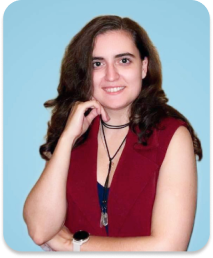
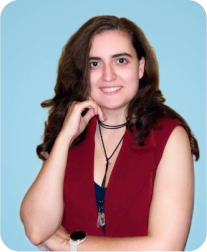
add mob card js

diff --git a/src/components/PersonalCard/PersonalCard.css b/src/components/PersonalCard/PersonalCard.css
@@ -45,7 +45,7 @@
   height: 268px;
   border-radius: 21px;
   position: absolute;
-  filter: drop-shadow(0px 3.14199px 3.14199px rgba(0, 0, 0, 0.25));
+/*  filter: drop-shadow(0px 3.14199px 3.14199px rgba(0, 0, 0, 0.25));*/
 /*  border: red solid 1px;*/
   z-index: 4;
 }
@@ -453,110 +453,110 @@ pad
     align-items: center;
     justify-content: center;
     margin: 0px  0px  0px  0px;*/
-    padding: 50px  0px  100px  0px;
+    padding: 0px  0px  0px  0px;
 /*  border: red solid 1px;*/
 }
 
   .personal-card__info-wrapper {
-/*    width: 100%;
+    width: 100%;
     display: flex;
-    flex-direction: row;
-    align-items: flex-top;
-    justify-content: flex-start;
+    flex-direction: column;
+    align-items: center;
+    justify-content: center;
     margin: 0px 0px 0px 0px;
-    padding: 0px 0px 0px 0px;*/
+    padding: 0px 0px 0px 0px;
   }
 
-.personal-card__img-button {
-/*  display: flex;
-  flex-direction: column;
-  align-items: center;
-  justify-content: flex-top;
-  margin: 0px  0px  0px  0px;*/
-  padding: 0px  25px  0px 25px;
-}
+  .personal-card__img-button {
+  /*  display: flex;
+    flex-direction: column;
+    align-items: center;
+    justify-content: flex-top;
+    margin: 0px  0px  0px  0px;*/
+    padding: 0px  0px  0px 0px;
+  }
 
-.personal-card__card-img-wrapper {
-/*  position: relative;*/
-  width: 220px;
-  height: 268px;
-  border-radius: 21px;
-/*  z-index: 5;*/
-  padding: 0px 0px 0px 0px;
-}
+  .personal-card__card-img-wrapper {
+  /*  position: relative;*/
+    width: 325px;
+    height: 395px;
+    border-radius: 18.78px;
+  /*  z-index: 5;*/
+    padding: 0px 0px 0px 0px;
+  }
 
-.personal-card__card-img{
-  object-fit: cover;
-  width: 325px;
-  height: 395px;
-  border-radius: 18.78px;
-/*  position: absolute;
-  filter: drop-shadow(0px 3.14199px 3.14199px rgba(0, 0, 0, 0.25));
-  z-index: 4;*/
-}
+  .personal-card__card-img{
+    object-fit: cover;
+    width: 325px;
+    height: 395px;
+    border-radius: 18.78px;
+  /*  position: absolute;*/
+  /*  filter: drop-shadow(0px 3.14199px 3.14199px #000000);*/
+  /*  z-index: 4;*/
+  }
 
-.personal-card__card-img-background{
-/*  position: absolute;*/
-  width: 325px;
-  height: 395px;
-  border-radius: 18.78px;
-/*  z-index: 3;*/
-}
+  .personal-card__card-img-background{
+  /*  position: absolute;*/
+    width: 323px;
+    height: 390px;
+    border-radius: 28px;
+  /*  z-index: 3;*/
+  }
 
-.personal-card__button {
-  width: 124px;
-  height: 40px;
-/*  background-color: #FFC754;*/
-/*  border: none;*/
-/*  border: #FFC754 solid 1px;*/
-  border-radius: 10px;
+  .personal-card__button {
+    width: 323px;
+    height: 40px;
+  /*  background-color: #FFC754;*/
+  /*  border: none;*/
+  /*  border: #FFC754 solid 1px;*/
+    border-radius: 10px;
 
-/*  font-family: 'Montserrat';
-  font-style: normal;
-  font-weight: 500;*/
-  font-size: 20px;
-  line-height: 24px;
-/*  color: #000000;*/
-}
+  /*  font-family: 'Montserrat';
+    font-style: normal;
+    font-weight: 500;*/
+    font-size: 20px;
+    line-height: 24px;
+  /*  color: #000000;*/
+  }
 
-.personal-card__info {
+  .personal-card__info {
 /*  height: 400px;*/
-/*  max-width: 840px;*/
-  width: max-content;
-/*  display: flex;*/
-  flex-direction: column;
-  align-items: center;
-  justify-content: flex-top;
-  margin: 0px  0px  0px  0px;
-  padding: 0px  0px  0px  0px;
-/*  border: green solid 1px;*/
-}
+    max-width: 375px;
+    width: 100%;
+  /*  display: flex;*/
+    flex-direction: column;
+    align-items: center;
+    justify-content: flex-top;
+    margin: 0px  0px  0px  0px;
+    padding: 0px  0px  0px  0px;
+  /*  border: green solid 1px;*/
+  }
 
-.personal-card__info-title {
-/*  height: 400px;*/
-/*  width: 100%;
-  display: flex;*/
-/*  flex-direction: row;*/
-/*  flex-wrap: wrap;
-  align-items: flex-top;
-  justify-content: space-between;
-  margin: 0px  0px  0px  0px;
-  padding: 0px  0px  0px  0px;*/
+  .personal-card__info-title {
+  /*  height: 400px;*/
+  /*  width: 100%;
+    display: flex;*/
+  /*  flex-direction: row;*/
+  /*  flex-wrap: wrap;
+    align-items: flex-top;
+    justify-content: space-between;
+    margin: 0px  0px  0px  0px;
+    padding: 0px  0px  0px  0px;*/
 
-}
+  }
 
-.personal-card__name-role {
-/*  height: 400px;*/
-/*  width: 300px;*/
-  max-width: 445px;
-  width: 100%;
-  display: flex;
-  flex-direction: column;
-  align-items:  flex-start;
-  justify-content: flex-start;
-  margin: 0px  0px  0px  0px;
-  padding: 0px 20px  0px  0px;
-  /*border: green solid 1px;*/
+  .personal-card__name-role {
+  /*  height: 400px;*/
+  /*  width: 300px;*/
+    max-width: 375px;
+    width: 100%;
+    display: flex;
+    flex-direction: column;
+    align-items:  flex-start;
+    justify-content: flex-start;
+    margin: 0px  0px  0px  0px;
+    padding: 0px 0px  0px  0px;
+    /*border: green solid 1px;*/
 }
 
 .personal-card__name {
@@ -584,15 +584,15 @@ pad
 
 .personal-card__info-about-me {
 /*  height: 400px;*/
-  max-width: 544px;
-/*  width: 100%;
-  display: flex;
+  max-width: 375px;
+  width: 100%;
+/*  display: flex;
   flex-direction: column;
   align-items: flex-start;
   justify-content: flex-start;*/
   align-self: flex-start;
   margin: 0px  0px  0px  0px;
-  padding: 30px  0px  0px  62px;
+  padding: 0px  0px  0px  0px;
 }
 .personal-card__about-me-title {
 /*  font-family: 'Montserrat';
@@ -603,7 +603,7 @@ pad
   letter-spacing: 0.015em;
 /*  color: #1D1D1D;
   margin: 0px  0px  0px  0px;*/
-  padding: 0px  0px  35px  0px;
+  padding: 0px  0px  0px  0px;
 
 }
 
@@ -634,8 +634,9 @@ pad
 
 
 .personal-card__connecting {
-/*  max-width: 360px;
-  display: flex;
+  max-width: 375px;
+  width: 100%;
+/*  display: flex;
   flex-direction: column;
   align-items: flex-start;
   justify-content: flex-top;*/
@@ -663,6 +664,5 @@ pad
 
   color: #313131;
 }
-
 
 }

diff --git a/src/components/PersonalCard/PersonalCard.js b/src/components/PersonalCard/PersonalCard.js
@@ -11,7 +11,7 @@ const PersonalCard = ({ member, isDesk, isPad, isMob}) => {
     window.location.href = `${member.resume}`;
   }, [member, pathname]);
 
-  const getPersonalCardInfoAboutMe = useMemo(() => {
+  const personalCardInfoAboutMe = useMemo(() => {
     return (
       <div className='personal-card__info-about-me'>
         <div className='personal-card__about-me-title'>Обо мне:</div>
@@ -33,6 +33,15 @@ const PersonalCard = ({ member, isDesk, isPad, isMob}) => {
         </div>
     )
   }, [member, pathname]);
+  
+  const personalNameRole = useMemo(() => {
+    return (
+      <>
+        <div className='personal-card__name'>{`${member.name}`}</div>
+        <div className='personal-card__role'>{`${member.team_role}`}</div>
+      </>
+    );
+  }, [member, pathname]);
 
   return (
     <div className='personal-card'>
@@ -48,18 +57,35 @@ const PersonalCard = ({ member, isDesk, isPad, isMob}) => {
             </div>
           { <img src={require(`../../images/foto/${member.desktop_foto}`)} className='personal-card__card-img'  alt="command person foto"/>}
           </div>
+          { isMob ? (
+            <div className='personal-card__name-role'>
+              {
+                personalNameRole
+              }
+              {
+                isDesk ? personalCardInfoAboutMe : null
+              }
+            </div>
+            ) : null
+          }
           <button className='personal-card__button' onClick={buttonLink} >Резюме</button>
-      
+          {
+            isMob ? personalCardInfoAboutMe : null
+          }
         </div>
         <div className='personal-card__info'>
           <div className='personal-card__info-title'>
+          { isMob ? null : (
             <div className='personal-card__name-role'>
-              <div className='personal-card__name'>{`${member.name}`}</div>
-              <div className='personal-card__role'>{`${member.team_role}`}</div>
               {
-                isDesk ? getPersonalCardInfoAboutMe : null
+                personalNameRole
+              }
+              {
+                isDesk ? personalCardInfoAboutMe : null
               }
             </div>
+            )
+          }
             <div className='personal-card__connecting'>
               <div className='personal-card__connecting-text'>Связаться со мной:</div>
               {
@@ -78,7 +104,7 @@ const PersonalCard = ({ member, isDesk, isPad, isMob}) => {
 
       </div>
         {
-          isPad ? getPersonalCardInfoAboutMe : null
+          isPad ? personalCardInfoAboutMe : null
         }
     </div>
   );

diff --git a/src/components/AboutSlogan/AboutSlogan.css b/src/components/AboutSlogan/AboutSlogan.css
@@ -316,6 +316,7 @@ p {
 
   .about_slogan__text-right {
     max-width: 300px;
+    width: 100%;
     adding-top: 0px;
     padding-top: 10px;
 
